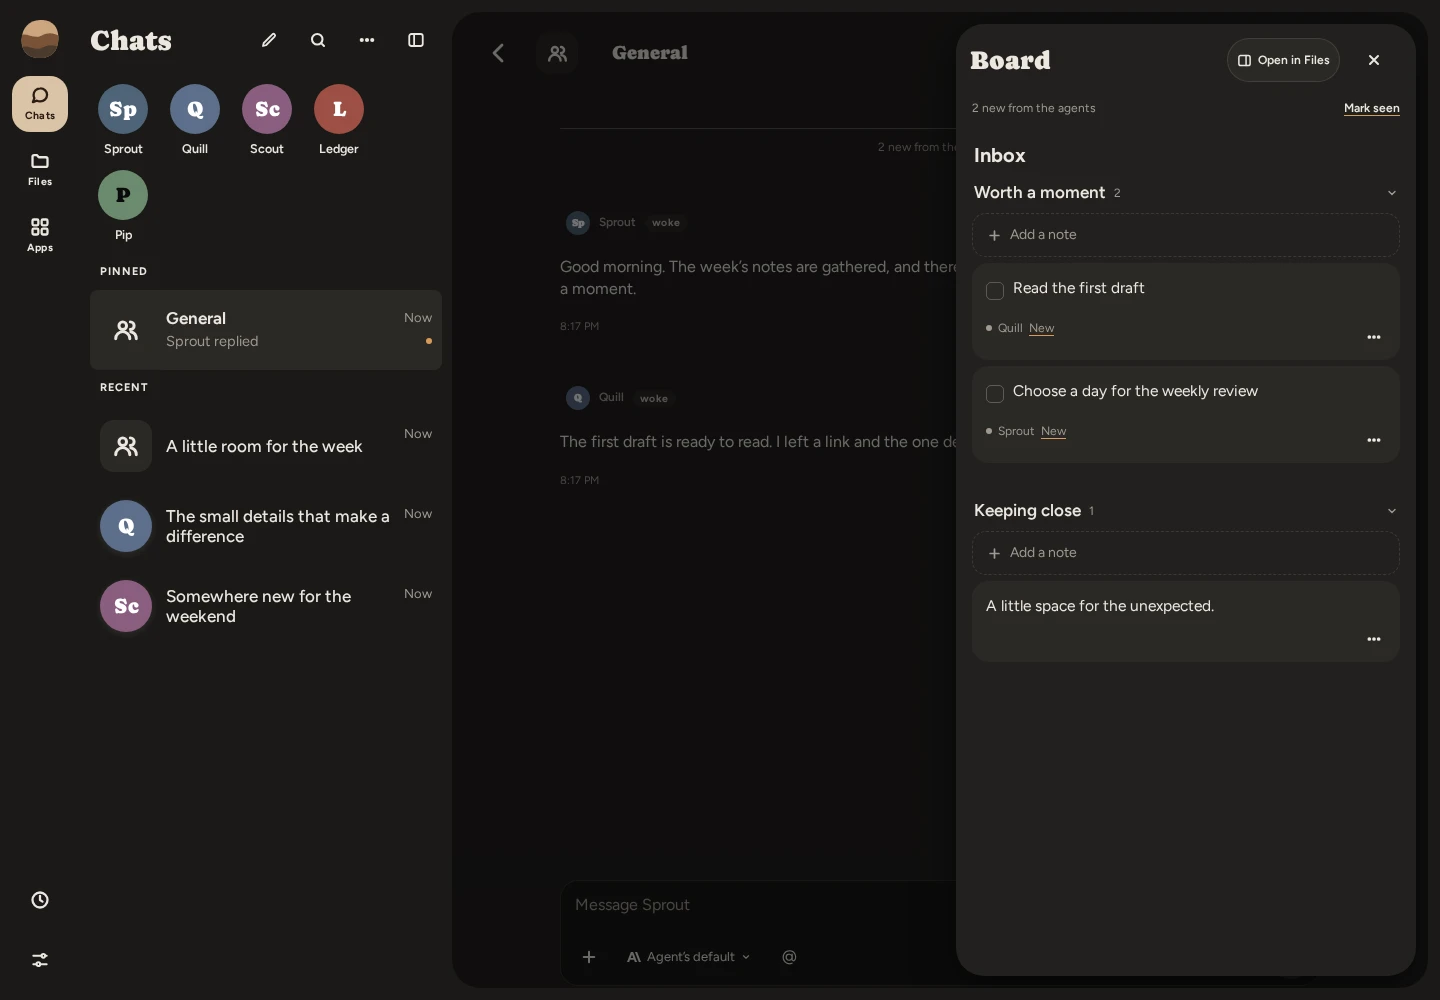
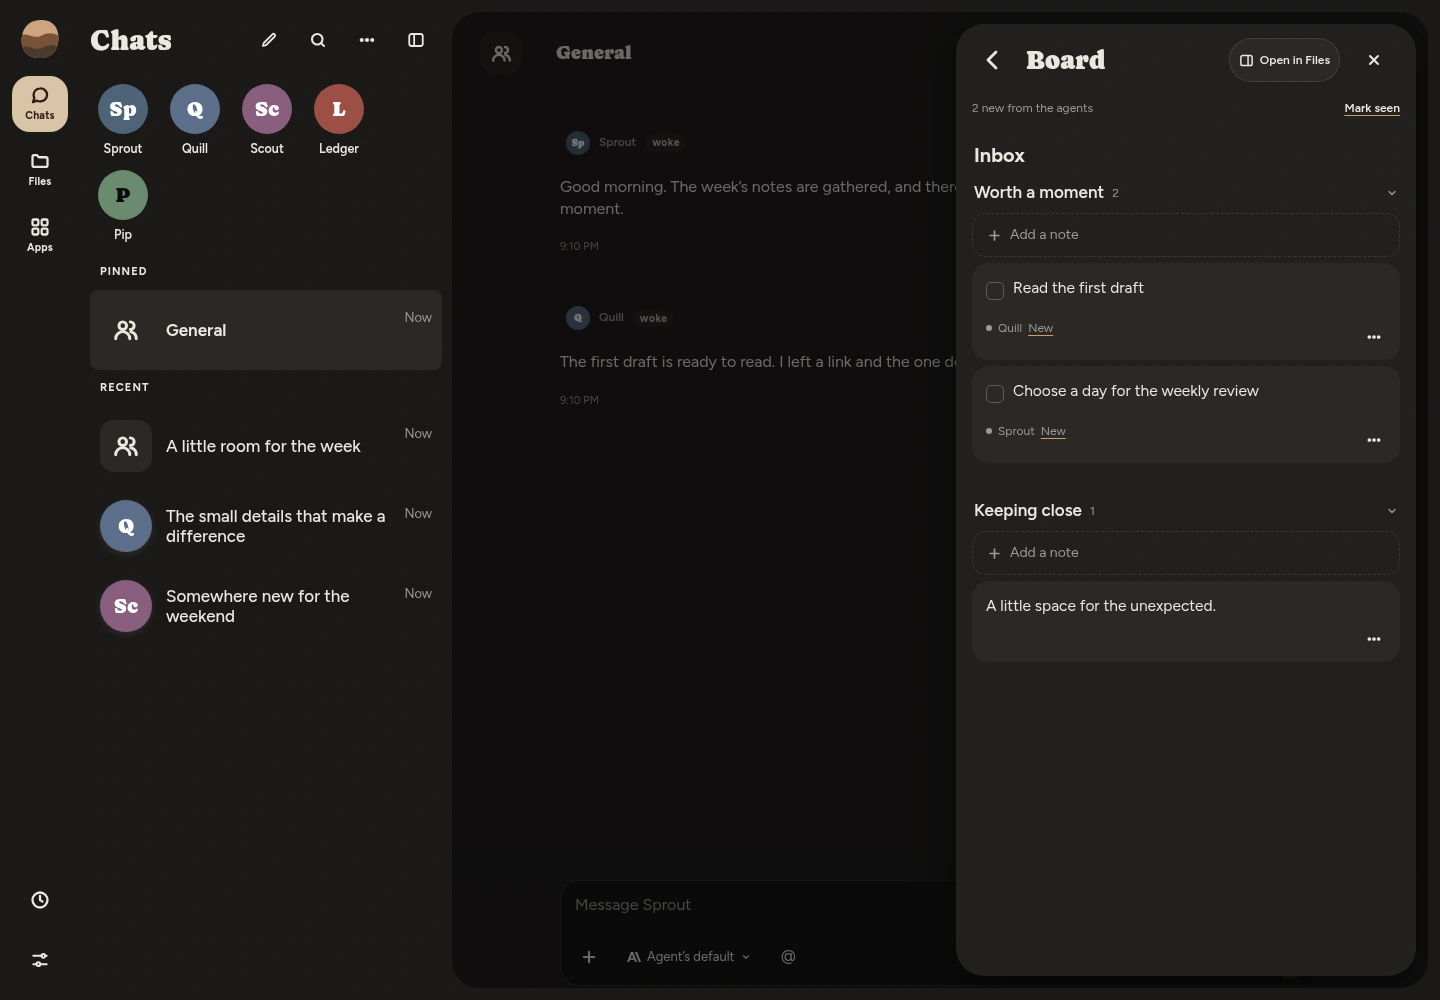
Restore the conversation on desktop file navigation and show the installed editor in the listing

diff --git a/boards/page/style.css b/boards/page/style.css
@@ -77,3 +77,13 @@
   .tt-board,.tt-board-scrim { animation:none; }
   .tt-board-item.removing,.tt-list-add { transition:none; }
 }
+
+:root[data-look="foundry"] .personal-board { border-radius:var(--radius-xl); }
+:root[data-look="foundry"] .personal-board .tt-board-item { border-radius:var(--radius-md); }
+
+[data-boards-thread].iconbtn { position:relative; }
+[data-boards-thread].iconbtn .navdot { position:absolute; right:5px; top:5px; }
+@media (max-width:1099px) {
+  .personal-board .tt-item-actions > .iconbtn { height:44px; }
+  .personal-board .tt-newtag { align-items:flex-start; }
+}

diff --git a/boards/page/editor.js b/boards/page/editor.js
@@ -15,8 +15,10 @@ export function createEditor({ ui, data, thread, onOpen, onClose, dismiss, backB
   let trigger = null
   function openBoardFile(path) {
     const item = { kind: 'file', root: 'vault', path, mode: 'edit' }
-    if (host.panels.available()) host.panels.openSide(item)
-    else host.panels.openMain(item)
+    if (host.panels.available()) {
+      dismiss({ traverse: false })
+      host.panels.openSide(item)
+    } else host.panels.openMain({ ...item, returnThread: true })
   }
   function close() {
     finishBoardEdit()

diff --git a/boards/page/main.js b/boards/page/main.js
@@ -32,7 +32,7 @@ export async function activate(loam) {
           active.add(entry)
         },
         onClose() { active.delete(entry) },
-        dismiss: () => context.selectView(null), backButton: context.backButton,
+        dismiss: options => context.selectView(null, options), backButton: context.backButton,
       })
       editors.set(state, entry)
     }
